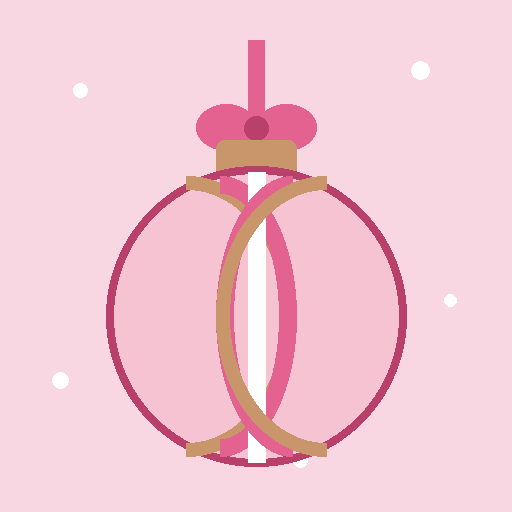
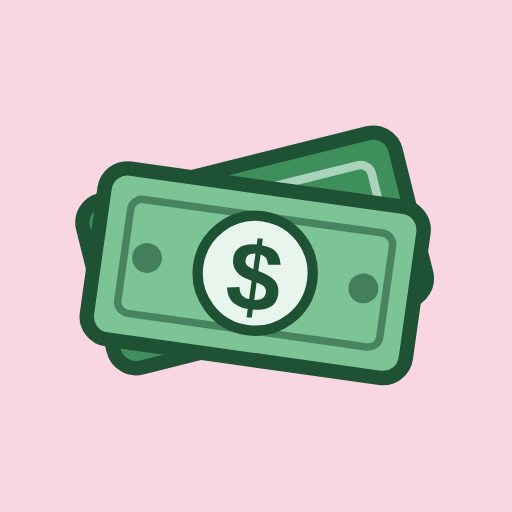
Plain light mode (flowers, money); Christmas touches only after the candy cane is clicked; flip the candy cane
Claude-Session: https://claude.ai/code/session_01Dzb74Rq5jDjySTeCGCPZpk

diff --git a/assets/today.js b/assets/today.js
@@ -90,14 +90,14 @@
         <h2>Days of history: ${fmt(daysWithData)}</h2>
       </div>
       <p class="lede">The tool has ${fmt(daysWithData)} day${daysWithData === 1 ? "" : "s"} of job data, starting ${esc(status.watching_since ? shortDate(status.watching_since) : dayLabel(firstRunDay))}${missed ? `, with ${missed} day${missed === 1 ? "" : "s"} missed` : ""}.
-        Each ornament is one day: lit means that day's check worked${missed ? ", grey means it was missed" : ""}, and the faded one is the next check. Hover over or tap one to see its date. Times are Dallas time.</p>
+        Each one is a day: in color means that day's check worked${missed ? ", grey means it was missed" : ""}, and the faded one is the next check. Hover over or tap one to see its date. Times are Dallas time.</p>
       <div class="ornaments" id="orns">${calendar.map(c =>
         `<button type="button" class="orn ${c.done ? "lit" : "missed"}" aria-label="Day ${c.n}: ${esc(dallasStamp(c.when))}, ${c.done ? "data collected" : "missed"}">
-          <img src="icons/ornament.svg" alt=""><small>${esc(shortDate(c.when))}</small>
+          <img class="money plain-only" src="icons/favicon.svg" alt=""><img class="xmas-only" src="icons/ornament.svg" alt=""><small>${esc(shortDate(c.when))}</small>
           <span class="orn-tip" role="tooltip"><b>Day ${c.n}</b>${c.done ? "Checked" : "Check missed"} ${esc(dallasStamp(c.when))}${c.began && c.began !== c.when ? `<span>Watching began ${esc(dallasStamp(c.began))}</span>` : ""}<em class="${c.done ? "ok" : ""}">${c.done ? "✓ Data collected" : "✗ No data this day"}</em></span>
         </button>`).join("")}
         <button type="button" class="orn next" aria-label="Next check: ${esc(dallasStamp(nextCheck))}">
-          <img src="icons/ornament.svg" alt=""><small>Next</small>
+          <img class="money plain-only" src="icons/favicon.svg" alt=""><img class="xmas-only" src="icons/ornament.svg" alt=""><small>Next</small>
           <span class="orn-tip" role="tooltip"><b>Next check</b>${esc(dallasStamp(nextCheck))}<em>Coming up</em></span>
         </button></div>
     </div>
@@ -111,7 +111,7 @@
       </div>
       <div class="controls">
         <label>Search titles<input id="dq" type="search" placeholder="e.g. underwriter"></label>
-        <button class="btn" id="surprise" type="button">🎁 Surprise me</button>
+        <button class="btn" id="surprise" type="button"><span class="plain-only">💸</span><span class="xmas-only">🎁</span> Surprise me</button>
       </div>
       <p class="count" id="dcount"></p>
       <ul class="jobs" id="dlist"></ul>

diff --git a/assets/style.css b/assets/style.css
@@ -61,7 +61,8 @@ a:hover { color: var(--berry); }
 .nav-links a[aria-current="page"] { color: var(--snow); background: var(--ink); }
 /* garland hangs at the top of the hero band and scrolls away with the page */
 .garland { position: absolute; top: 0; left: 0; right: 0; height: 50px; z-index: 2; pointer-events: none;
-  background: url("../icons/garland.svg") repeat-x center / auto 50px; }
+  background: url("../icons/flower-garland.svg") repeat-x center / auto 50px; }
+body.festive .garland { background-image: url("../icons/garland.svg"); } /* mistletoe in Christmas mode */
 
 /* ---------- hero: angled gradient band ---------- */
 .hero-band {
@@ -77,8 +78,8 @@ a:hover { color: var(--berry); }
   animation: drift 18s ease-in-out infinite alternate;
   clip-path: polygon(0 0, 100% 0, 100% 78%, 0 100%);
 }
-.hero-band::after { /* soft falling-snow speckle */
-  content: ""; position: absolute; inset: 0; pointer-events: none; opacity: .7;
+.hero-band::after { /* soft falling-snow speckle (Christmas mode only) */
+  content: ""; position: absolute; inset: 0; pointer-events: none; opacity: 0; transition: opacity .35s;
   background-image:
     radial-gradient(circle, #fff 0 1.6px, transparent 2.4px),
     radial-gradient(circle, #fff 0 1.1px, transparent 1.8px);
@@ -458,6 +459,7 @@ body.festive .hero-band {
   background-size: 140% 140%;
 }
 body.festive .hero-band::after { opacity: .45; }
+
 body.festive .eyebrow { background: rgba(255, 255, 255, .1); color: #a9e2c0; }
 body.festive .hero p { color: #e2cbd6; }
 body.festive .btn-primary { background: #f7e9f0; color: #21161d; }
@@ -504,3 +506,13 @@ body.festive .countdown { color: #fff; }
 #light-frame .lf-left::before, #light-frame .lf-right::before { top: 0; bottom: 0; left: 3px; width: 2px; }
 #light-frame .lf-left i, #light-frame .lf-right i { margin: 0 0 0 6px; width: 12px; height: 8px; border-radius: 45% 50% 50% 45%; }
 #light-frame .lf-left i::before, #light-frame .lf-right i::before { top: 2px; left: -3px; width: 4px; height: 4px; }
+
+/* ---------- Plain until the candy cane is clicked: every Christmas touch has a plain
+   version (money, flowers) that swaps for the Christmas one in Christmas mode. ---------- */
+.xmas-only { display: none; }
+body.festive .xmas-only { display: inline; }
+body.festive .plain-only { display: none; }
+.orn img.money { width: 46px; height: 46px; margin: 5px 0 5px; }
+.orn img.xmas-only { display: none; }
+body.festive .orn img.xmas-only { display: block; }
+.orn.next img.money { outline-offset: 2px; border-radius: 10px; }

diff --git a/sw.js b/sw.js
@@ -1,13 +1,13 @@
 // Service worker: network first, cache as the fallback.
 // Online, every page and data file comes from the network (and the copy is saved).
 // Offline, the site still opens and shows the last data it loaded.
-const CACHE = "job-watcher-v29";
+const CACHE = "job-watcher-v30";
 const SHELL = [
   "./", "index.html", "browse.html", "market.html",
   "assets/style.css", "assets/common.js", "assets/charts.js",
   "assets/today.js", "assets/browse.js", "assets/market.js",
   "manifest.webmanifest", "icons/icon-192.png", "icons/icon-512.png",
-  "icons/ornament.svg", "icons/garland.svg", "icons/favicon.svg", "icons/favicon-32.png", "icons/santa-hat.svg", "icons/candy-cane.svg", "assets/snoopy.png",
+  "icons/ornament.svg", "icons/garland.svg", "icons/flower-garland.svg", "icons/favicon.svg", "icons/favicon-32.png", "icons/santa-hat.svg", "icons/candy-cane.svg", "assets/snoopy.png",
 ];
 
 self.addEventListener("install", event => {

diff --git a/index.html b/index.html
@@ -34,7 +34,7 @@
       <p>Every morning this tool checks the career sites of 20 banks and lenders and shows what's new, what's gone, and every open credit job in Dallas.</p>
       <div class="hero-cta"><a class="btn-primary" href="browse.html">Browse credit jobs <span>→</span></a><a class="btn-link" href="market.html">See the market <span>→</span></a></div>
     </div>
-    <img class="mascot" src="assets/snoopy.png" alt="Snoopy holding money" onerror="this.src='icons/ornament.svg';this.onerror=null">
+    <img class="mascot" src="assets/snoopy.png" alt="Snoopy holding money" onerror="this.src='icons/favicon.svg';this.onerror=null">
   </div>
 </header>
 <main>

diff --git a/assets/common.js b/assets/common.js
@@ -77,7 +77,7 @@ function dallasDate(d) {
 function jobItem(r, opts = {}) {
   const badges = [
     r.in_role ? '<span class="pill role">credit role</span>' : "",
-    r.in_dallas ? '<span class="pill dfw">🎄 Dallas area</span>' : "",
+    r.in_dallas ? '<span class="pill dfw"><span class="plain-only">📍</span><span class="xmas-only">🎄</span> Dallas area</span>' : "",
   ].join(" ");
   const star = opts.star
     ? `<button class="star" data-id="${esc(r.posting_id)}" aria-pressed="${opts.starred ? "true" : "false"}" title="Save to shortlist" aria-label="Save to shortlist">${opts.starred ? "★" : "☆"}</button>`

diff --git a/README.md b/README.md
@@ -174,7 +174,7 @@ by `posting_id` (`<source>:<source's own id>`).
 | `browse.html` | Browse page: open postings with role switch, filters, search, sort, apply links, shortlist |
 | `market.html` | Market page: six findings computed in the browser from the history file |
 | `assets/style.css` | Shared fonts, colors and layout (pink Christmas theme, plus its dark mode) |
-| `assets/common.js` | Shared data loading, CSV parsing, date helpers, service-worker registration, and the bouncing candy cane in the top right (click it for dark mode with Christmas lights around the whole window and under the nav bar, snow, and a Santa hat on Snoopy; the site always opens in light mode) |
+| `assets/common.js` | Shared data loading, CSV parsing, date helpers, service-worker registration, and the bouncing candy cane in the top right (click it for Christmas mode: dark colors, Christmas lights around the whole window and under the nav bar, snow, mistletoe, ornaments and a Santa hat on Snoopy; the site always opens in plain light mode with flowers and money) |
 | `assets/charts.js` | Small SVG chart helpers with tooltips and table views |
 | `assets/today.js` | Today page: counts, new and taken-down lists, countdown, days-of-history tracker, Dallas job picker, shortlist, Snoopy money rain |
 | `assets/browse.js` | Browse page: role switch, filters (employer, area, days open), search, sort, shortlist |
@@ -182,10 +182,11 @@ by `posting_id` (`<source>:<source's own id>`).
 | `assets/snoopy.png` | Snoopy mascot at the top of each page (click him on the Today page) |
 | `manifest.webmanifest` | Web app manifest, so the site installs as an app |
 | `sw.js` | Service worker: network first, cached copy when offline |
-| `icons/icon-192.png`, `icons/icon-512.png` | App icons used when the site is installed |
-| `icons/favicon.svg`, `icons/favicon-32.png` | Dollar-bill tab icon (SVG, with a PNG fallback) |
-| `icons/ornament.svg` | Striped ornament (one per day in the days-of-history tracker) |
-| `icons/garland.svg` | Garland at the top of the page banner |
+| `icons/icon-192.png`, `icons/icon-512.png` | Dollar-bill app icons used when the site is installed |
+| `icons/favicon.svg`, `icons/favicon-32.png` | Dollar-bill tab icon (SVG, with a PNG fallback); also the days-of-history markers in light mode |
+| `icons/ornament.svg` | Striped ornament: one per day in the days-of-history tracker in Christmas mode (dollar bills in light mode) |
+| `icons/flower-garland.svg` | Flower garland at the top of the page banner (light mode) |
+| `icons/garland.svg` | Mistletoe garland that replaces the flowers in Christmas mode |
 | `icons/santa-hat.svg` | Santa hat Snoopy wears when the lights are on |
 | `icons/candy-cane.svg` | The candy cane that turns dark mode and the lights on and off |
 | `requirements-dev.txt` | Test dependency (pytest) |
